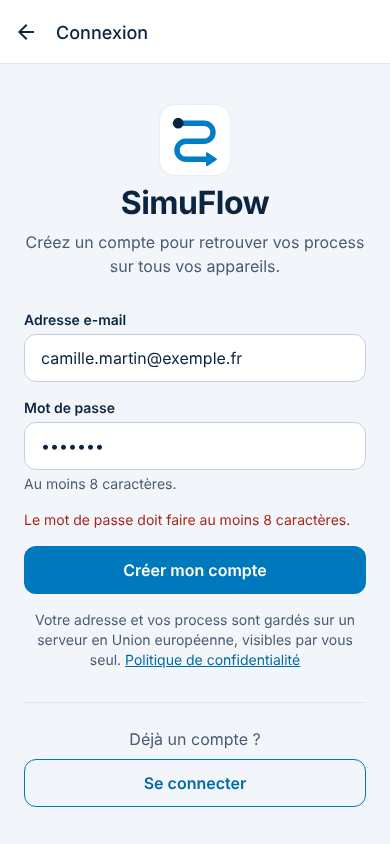
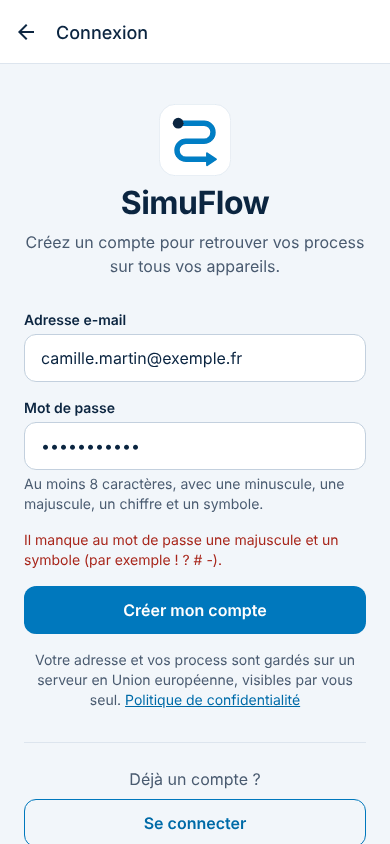
Aligner la règle du mot de passe sur Supabase
Minuscule, majuscule, chiffre et symbole en plus des 8 caractères, comme
le réglage du projet ; le message dit ce qui manque.

Claude-Session: https://claude.ai/code/session_017pFF8zmj7woNUfpfvQGFde

diff --git a/src/backend/auth-messages.ts b/src/backend/auth-messages.ts
@@ -9,6 +9,31 @@
  */
 export const PASSWORD_MIN_LENGTH = 8;
 
+/** Les symboles que Supabase compte (réglage « lowercase, uppercase, digits and symbols »). */
+const SYMBOLS = '!@#$%^&*()_+-=[]{};\'\\:"|<>?,./`~';
+
+/** La règle d'un nouveau mot de passe, affichée sous le champ. */
+export const PASSWORD_RULE = `Au moins ${PASSWORD_MIN_LENGTH} caractères, avec une minuscule, une majuscule, un chiffre et un symbole.`;
+
+/**
+ * Ce qui manque à un nouveau mot de passe, ou `null`. Mêmes exigences que le réglage
+ * Supabase du projet (longueur et types de caractères), qui les vérifie aussi.
+ */
+export function passwordProblem(password: string): string | null {
+  const missing = [
+    !/[a-z]/.test(password) && 'une minuscule',
+    !/[A-Z]/.test(password) && 'une majuscule',
+    !/[0-9]/.test(password) && 'un chiffre',
+    ![...password].some((char) => SYMBOLS.includes(char)) && 'un symbole (par exemple ! ? # -)',
+  ].filter((item): item is string => Boolean(item));
+  if (password.length < PASSWORD_MIN_LENGTH)
+    return `Le mot de passe doit faire au moins ${PASSWORD_MIN_LENGTH} caractères.`;
+  if (missing.length === 0) return null;
+  const list =
+    missing.length === 1 ? missing[0] : `${missing.slice(0, -1).join(', ')} et ${missing[missing.length - 1]}`;
+  return `Il manque au mot de passe ${list}.`;
+}
+
 export type Credentials = { email: string; password: string };
 
 /** Un problème dans l'adresse e-mail, ou `null`. */
@@ -23,18 +48,12 @@ export function checkCredentials({ email, password }: Credentials, mode: 'connex
   const emailProblem = checkEmail(email);
   if (emailProblem) return emailProblem;
   if (!password) return 'Saisissez votre mot de passe.';
-  if (mode === 'creation' && password.length < PASSWORD_MIN_LENGTH) {
-    return `Le mot de passe doit faire au moins ${PASSWORD_MIN_LENGTH} caractères.`;
-  }
-  return null;
+  return mode === 'creation' ? passwordProblem(password) : null;
 }
 
 /** Un problème dans le nouveau mot de passe (mot de passe oublié), ou `null`. */
 export function checkNewPassword(password: string): string | null {
-  if (password.length < PASSWORD_MIN_LENGTH) {
-    return `Le nouveau mot de passe doit faire au moins ${PASSWORD_MIN_LENGTH} caractères.`;
-  }
-  return null;
+  return passwordProblem(password);
 }
 
 /** Ce que contient le lien « Mot de passe oublié » qui rouvre l'app. */
@@ -69,7 +88,7 @@ const MESSAGES: Record<string, string> = {
   email_not_confirmed: "Confirmez d'abord votre adresse : ouvrez le lien reçu par e-mail.",
   user_already_exists: 'Un compte existe déjà avec cette adresse. Connectez-vous.',
   email_exists: 'Un compte existe déjà avec cette adresse. Connectez-vous.',
-  weak_password: `Mot de passe trop faible : au moins ${PASSWORD_MIN_LENGTH} caractères.`,
+  weak_password: `Mot de passe trop faible. ${PASSWORD_RULE}`,
   email_address_invalid: "Cette adresse e-mail n'est pas acceptée.",
   over_email_send_rate_limit: "Trop d'e-mails envoyés. Réessayez dans une heure.",
   over_request_rate_limit: 'Trop de tentatives. Patientez quelques minutes.',

diff --git a/src/backend/__tests__/auth-messages.test.ts b/src/backend/__tests__/auth-messages.test.ts
@@ -3,7 +3,7 @@ import { describe, expect, it } from '@jest/globals';
 import { authErrorMessage, checkCredentials, checkNewPassword, parseRecoveryLink } from '../auth-messages';
 
 describe('checkCredentials', () => {
-  const ok = { email: 'camille@exemple.fr', password: 'secret12' };
+  const ok = { email: 'camille@exemple.fr', password: 'Secret-12' };
 
   it('accepte une adresse et un mot de passe', () => {
     expect(checkCredentials(ok, 'connexion')).toBeNull();
@@ -16,8 +16,8 @@ describe('checkCredentials', () => {
   });
 
   it('demande 8 caractères à la création, pas à la connexion', () => {
-    expect(checkCredentials({ ...ok, password: 'abcdefg' }, 'creation')).toMatch(/au moins 8/);
-    expect(checkCredentials({ ...ok, password: 'abcdefgh' }, 'creation')).toBeNull();
+    expect(checkCredentials({ ...ok, password: 'Abc-123' }, 'creation')).toMatch(/au moins 8/);
+    expect(checkCredentials({ ...ok, password: 'Abcd-123' }, 'creation')).toBeNull();
     // Un ancien compte créé avec 6 caractères peut toujours se connecter.
     expect(checkCredentials({ ...ok, password: 'abcdef' }, 'connexion')).toBeNull();
     expect(checkCredentials({ ...ok, password: '' }, 'connexion')).toMatch(/mot de passe/);
@@ -41,8 +41,19 @@ describe('authErrorMessage', () => {
 
 describe('mot de passe oublié', () => {
   it('demande un nouveau mot de passe de 8 caractères', () => {
-    expect(checkNewPassword('abcdefg')).toMatch(/au moins 8/);
-    expect(checkNewPassword('nouveau1')).toBeNull();
+    expect(checkNewPassword('Abc-123')).toMatch(/au moins 8/);
+    expect(checkNewPassword('Nouveau-1')).toBeNull();
+  });
+
+  it('demande une minuscule, une majuscule, un chiffre et un symbole, comme Supabase', () => {
+    expect(checkNewPassword('nouveau1')).toBe(
+      'Il manque au mot de passe une majuscule et un symbole (par exemple ! ? # -).',
+    );
+    expect(checkNewPassword('NOUVEAU-1')).toBe('Il manque au mot de passe une minuscule.');
+    expect(checkNewPassword('motdepasse')).toBe(
+      'Il manque au mot de passe une majuscule, un chiffre et un symbole (par exemple ! ? # -).',
+    );
+    expect(checkNewPassword('Nouveau_1')).toBeNull();
   });
 
   it('lit la session dans le lien qui rouvre l’app', () => {

diff --git a/src/app/connexion.tsx b/src/app/connexion.tsx
@@ -13,7 +13,7 @@ import {
 } from 'react-native';
 
 import { signIn, signUp } from '@/backend/auth';
-import { checkCredentials, PASSWORD_MIN_LENGTH } from '@/backend/auth-messages';
+import { checkCredentials, PASSWORD_RULE } from '@/backend/auth-messages';
 import { PrimaryButton } from '@/components/primary-button';
 import { ResetPasswordForm } from '@/components/reset-password-form';
 import { SimuflowLogo } from '@/components/simuflow-logo';
@@ -142,7 +142,7 @@ export default function SignInScreen() {
             value={password}
             onChangeText={setPassword}
             accessibilityLabel="Mot de passe"
-            accessibilityHint={creating ? `Au moins ${PASSWORD_MIN_LENGTH} caractères.` : undefined}
+            accessibilityHint={creating ? PASSWORD_RULE : undefined}
             secureTextEntry
             autoCapitalize="none"
             autoComplete={creating ? 'new-password' : 'current-password'}
@@ -154,7 +154,7 @@ export default function SignInScreen() {
           />
           {creating ? (
             <ThemedText type="small" themeColor="textSecondary">
-              Au moins {PASSWORD_MIN_LENGTH} caractères.
+              {PASSWORD_RULE}
             </ThemedText>
           ) : (
             <Pressable

diff --git a/src/app/nouveau-mot-de-passe.tsx b/src/app/nouveau-mot-de-passe.tsx
@@ -12,7 +12,7 @@ import {
 } from 'react-native';
 
 import { type AuthResult, openRecoveryLink, updatePassword } from '@/backend/auth';
-import { checkNewPassword, parseRecoveryLink, PASSWORD_MIN_LENGTH } from '@/backend/auth-messages';
+import { checkNewPassword, parseRecoveryLink, PASSWORD_RULE } from '@/backend/auth-messages';
 import { PrimaryButton } from '@/components/primary-button';
 import { ThemedText } from '@/components/themed-text';
 import { MaxContentWidth, Radius, Spacing } from '@/constants/theme';
@@ -99,7 +99,7 @@ export default function NewPasswordScreen() {
             value={password}
             onChangeText={setPassword}
             accessibilityLabel="Nouveau mot de passe"
-            accessibilityHint={`Au moins ${PASSWORD_MIN_LENGTH} caractères.`}
+            accessibilityHint={PASSWORD_RULE}
             secureTextEntry
             autoCapitalize="none"
             autoComplete="new-password"
@@ -114,7 +114,7 @@ export default function NewPasswordScreen() {
             ]}
           />
           <ThemedText type="small" themeColor="textSecondary">
-            Au moins {PASSWORD_MIN_LENGTH} caractères.
+            {PASSWORD_RULE}
           </ThemedText>
         </View>
         {error && (

diff --git a/docs/technique.md b/docs/technique.md
@@ -576,8 +576,8 @@ Supabase fournit le backend : une base PostgreSQL, l'authentification et une API
 Supabase Auth, par adresse e-mail et mot de passe.
 
 - **Actions.** `signIn`, `signUp` et `signOut` appellent `supabase.auth` et renvoient `{ ok: true }` ou `{ ok: false, message }`, le message étant déjà en français. Après une création de compte sans session (confirmation par e-mail activée sur Supabase), `needsConfirmation` est vrai et l'écran dit d'ouvrir le lien reçu. Si l'adresse a déjà un compte et que la confirmation est active, Supabase ne renvoie pas d'erreur, pour ne pas révéler qui est inscrit, mais un compte sans identité : `signUp` le détecte et répond « Un compte existe déjà ».
-- **Messages** (`auth-messages.ts`, sans dépendance, testé). `checkCredentials` vérifie les champs avant l'envoi : adresse présente et bien formée, mot de passe présent, au moins 8 caractères à la création (`PASSWORD_MIN_LENGTH`, la même valeur que le réglage Supabase ; un ancien compte de 6 caractères peut toujours se connecter). `authErrorMessage` traduit les codes d'erreur de Supabase (`invalid_credentials`, `user_already_exists`, `weak_password`, limites d'envoi…) ; une coupure réseau donne « Serveur injoignable » ; tout autre cas un message générique, jamais le texte anglais du serveur.
-  ![Création de compte : mot de passe de 7 caractères refusé, 8 demandés](captures/etape-14c-mot-de-passe.png)
+- **Messages** (`auth-messages.ts`, sans dépendance, testé). `checkCredentials` vérifie les champs avant l'envoi : adresse présente et bien formée, mot de passe présent, à la création, la règle du mot de passe (`passwordProblem` : au moins 8 caractères, une minuscule, une majuscule, un chiffre et un symbole de la liste de Supabase ; le message dit ce qui manque). Ce sont les réglages du projet Supabase (« Minimum password length » : 8, « Password requirements » : minuscules, majuscules, chiffres et symboles), qui les vérifie aussi ; `PASSWORD_RULE` est la phrase affichée sous le champ. À la connexion, aucune règle : un ancien compte de 6 caractères peut toujours se connecter. `checkNewPassword` (mot de passe oublié) applique la même règle. `authErrorMessage` traduit les codes d'erreur de Supabase (`invalid_credentials`, `user_already_exists`, `weak_password`, limites d'envoi…) ; une coupure réseau donne « Serveur injoignable » ; tout autre cas un message générique, jamais le texte anglais du serveur.
+  ![Création de compte : l'app dit ce qui manque au mot de passe](captures/etape-14c-mot-de-passe.png)
 - **Session** (`session-store.ts`). `createSessionStore(auth)` garde la session en mémoire et prévient les écrans quand elle change (`onAuthStateChange`). Il ne contacte Supabase qu'au premier écran abonné. `undefined` veut dire « pas encore lu », `null` « personne n'est connecté ». `useSession()` (`auth.ts`) le branche sur React avec `useSyncExternalStore`. Le magasin reçoit `auth` en paramètre : les tests lui donnent un faux client.
 - **Écran Connexion** (maquette écran 1). Logo (`simuflow-logo.tsx`, dessiné en SVG), adresse, mot de passe, bouton principal, et un second bouton pour passer de « Se connecter » à « Créer un compte ». Le clavier propose l'adresse et les mots de passe enregistrés (`textContentType`, `autoComplete`), « Suivant » passe au mot de passe et « OK » envoie. Une erreur est annoncée par VoiceOver et TalkBack (`accessibilityRole="alert"`). Une fois connecté, la fenêtre se ferme.
 - **Mot de passe oublié** (`requestPasswordReset`, `openRecoveryLink`, `updatePassword` ; `src/components/reset-password-form.tsx`, `src/app/nouveau-mot-de-passe.tsx`). Sous le mot de passe, « Mot de passe oublié ? » demande l'adresse. `resetPasswordForEmail(adresse, { redirectTo })` fait envoyer par Supabase l'e-mail par défaut, avec un lien. La réponse est la même que l'adresse ait un compte ou non (« Si un compte existe… »). Le lien passe par Supabase, qui le vérifie, puis rouvre l'app sur `redirectTo` = `Linking.createURL('nouveau-mot-de-passe')`, soit `simuflow://nouveau-mot-de-passe#access_token=…&refresh_token=…&type=recovery`. L'écran « Nouveau mot de passe » lit cette adresse (`useLinkingURL`), `parseRecoveryLink` en tire la session (ou l'erreur `otp_expired` d'un lien expiré ou déjà servi), `setSession` l'ouvre, puis `updateUser({ password })` enregistre le nouveau mot de passe : on reste connecté. Le lien doit être ouvert sur le téléphone où l'app est installée ; il est valable une heure. **Réglage Supabase** : Authentication > URL Configuration > Redirect URLs doit contenir `simuflow://**`, sinon le lien renvoie vers l'adresse du site (Site URL) au lieu de l'app. Un code à taper dans l'app serait plus souple (e-mail lu sur un autre appareil), mais il faut modifier le modèle d'e-mail, ce que Supabase n'autorise qu'avec un serveur d'e-mails personnel (SMTP). Avec le serveur intégré (offre gratuite), les envois sont limités à quelques-uns par heure.

diff --git a/docs/securite.md b/docs/securite.md
@@ -38,7 +38,7 @@ La checklist suit les catégories de l'OWASP MASVS (référentiel de sécurité 
 | Jeton de courte durée, renouvelé seulement app ouverte | ✅ | Expiration une heure ; `startAutoRefresh` / `stopAutoRefresh` selon `AppState` (`client.ts`) |
 | Suppression du compte depuis l'app | ✅ | `delete_my_account()` (`security definer`, `search_path` vide), données supprimées en cascade |
 | Mot de passe oublié sans révéler si une adresse a un compte | ✅ | Même réponse dans les deux cas ; lien à usage unique valable une heure |
-| Longueur minimale du mot de passe | ✅ | 8 caractères, vérifiés par l'app (`PASSWORD_MIN_LENGTH`, testé) et par Supabase (réglage du projet) |
+| Mot de passe robuste | ✅ | 8 caractères au moins, avec minuscule, majuscule, chiffre et symbole, vérifiés par l'app (`passwordProblem`, testé) et par Supabase (réglages « Minimum password length » et « Password requirements » du projet) |
 | Limitation des tentatives (force brute) | ✅ | Limites de Supabase Auth sur la connexion et l'envoi d'e-mails |
 
 ### Réseau (MASVS-NETWORK)
@@ -95,7 +95,7 @@ La checklist suit les catégories de l'OWASP MASVS (référentiel de sécurité 
 
 - **Liens universels** pour la récupération du mot de passe, avec un domaine vérifié (Apple App Site Association, Android App Links) : à envisager si l'app est publiée sur les stores.
 
-Corrigés le 31 octobre (étape 14c) : le jeton de session est passé dans le trousseau chiffré, la sauvegarde Android est désactivée, et le mot de passe demande 8 caractères.
+Corrigés le 31 octobre (étape 14c) : le jeton de session est passé dans le trousseau chiffré, la sauvegarde Android est désactivée, et le mot de passe demande 8 caractères avec minuscule, majuscule, chiffre et symbole.
 
 
 ## Secrets et clés
@@ -118,8 +118,8 @@ Corrigés le 31 octobre (étape 14c) : le jeton de session est passé dans le tr
 ## Comptes
 
 - Connexion par e-mail et mot de passe (Supabase Auth). Les mots de passe sont stockés chiffrés par Supabase ; l'app ne les garde pas.
-- Mot de passe oublié : lien à usage unique envoyé par e-mail, valable une heure, qui ne rouvre que l'app (adresse `simuflow://` autorisée dans Supabase), puis nouveau mot de passe d'au moins 8 caractères. L'app répond pareil que l'adresse ait un compte ou non, pour ne pas révéler qui est inscrit ; Supabase limite le nombre d'e-mails envoyés.
-- Mot de passe d'au moins 8 caractères à la création (vérifié par l'app et par Supabase ; un compte plus ancien de 6 caractères peut toujours se connecter). Les messages d'erreur ne révèlent pas si une adresse a déjà un compte quand la confirmation par e-mail est active.
+- Mot de passe oublié : lien à usage unique envoyé par e-mail, valable une heure, qui ne rouvre que l'app (adresse `simuflow://` autorisée dans Supabase), puis nouveau mot de passe qui suit la même règle qu'à la création. L'app répond pareil que l'adresse ait un compte ou non, pour ne pas révéler qui est inscrit ; Supabase limite le nombre d'e-mails envoyés.
+- Mot de passe d'au moins 8 caractères à la création, avec une minuscule, une majuscule, un chiffre et un symbole (vérifié par l'app et par Supabase ; un compte plus ancien peut toujours se connecter avec son mot de passe). Les messages d'erreur ne révèlent pas si une adresse a déjà un compte quand la confirmation par e-mail est active.
 - La session (jeton) est gardée dans le trousseau chiffré du téléphone (Keychain, Keystore), jamais copiée vers un autre appareil, et renouvelée seulement tant que l'app est ouverte. Les données de l'app sont exclues de la sauvegarde Android.
 - Suppression du compte depuis l'app : fonction `delete_my_account()` (`security definer`, `search_path` vide), limitée au compte connecté et refusée sans connexion ; ses process sont supprimés avec lui (`on delete cascade`). Testée avec deux comptes (`supabase/tests/suppression_compte.sql`).
 

diff --git a/docs/fonctionnalites.md b/docs/fonctionnalites.md
@@ -143,9 +143,9 @@ Dans la simulation, touchez le bouton de partage en haut à droite. Choisissez l
 
 SimuFlow a son serveur, hébergé à Paris. Dans **Profil**, la section **À propos** indique si l'app arrive à le joindre ; sinon, vérifiez la connexion Internet et touchez **Réessayer**.
 
-**Créer un compte** : dans **Profil**, touchez **Se connecter ou créer un compte**, puis **Créer un compte**. Saisissez votre adresse e-mail et un mot de passe d'au moins 8 caractères. Sous le bouton, une phrase rappelle où vos données sont gardées, avec le lien vers la politique de confidentialité. Si l'app vous le demande, ouvrez le lien reçu par e-mail, puis connectez-vous. Votre connexion est gardée dans le coffre chiffré du téléphone.
+**Créer un compte** : dans **Profil**, touchez **Se connecter ou créer un compte**, puis **Créer un compte**. Saisissez votre adresse e-mail et un mot de passe d'au moins 8 caractères, avec une minuscule, une majuscule, un chiffre et un symbole ; s'il en manque, l'app dit lesquels. Sous le bouton, une phrase rappelle où vos données sont gardées, avec le lien vers la politique de confidentialité. Si l'app vous le demande, ouvrez le lien reçu par e-mail, puis connectez-vous. Votre connexion est gardée dans le coffre chiffré du téléphone.
 
-![Création de compte : 8 caractères au moins](captures/etape-14c-mot-de-passe.png)
+![Création de compte : l'app dit ce qui manque au mot de passe](captures/etape-14c-mot-de-passe.png)
 
 **Mot de passe oublié** : sur l'écran de connexion, touchez **Mot de passe oublié ?**, saisissez votre adresse et touchez **Recevoir un lien**. Ouvrez l'e-mail reçu **sur le téléphone** et touchez son lien : SimuFlow s'ouvre sur **Nouveau mot de passe**. Choisissez-en un et touchez **Enregistrer le mot de passe** : vous êtes connecté. Le lien est valable une heure et ne sert qu'une fois.
 
